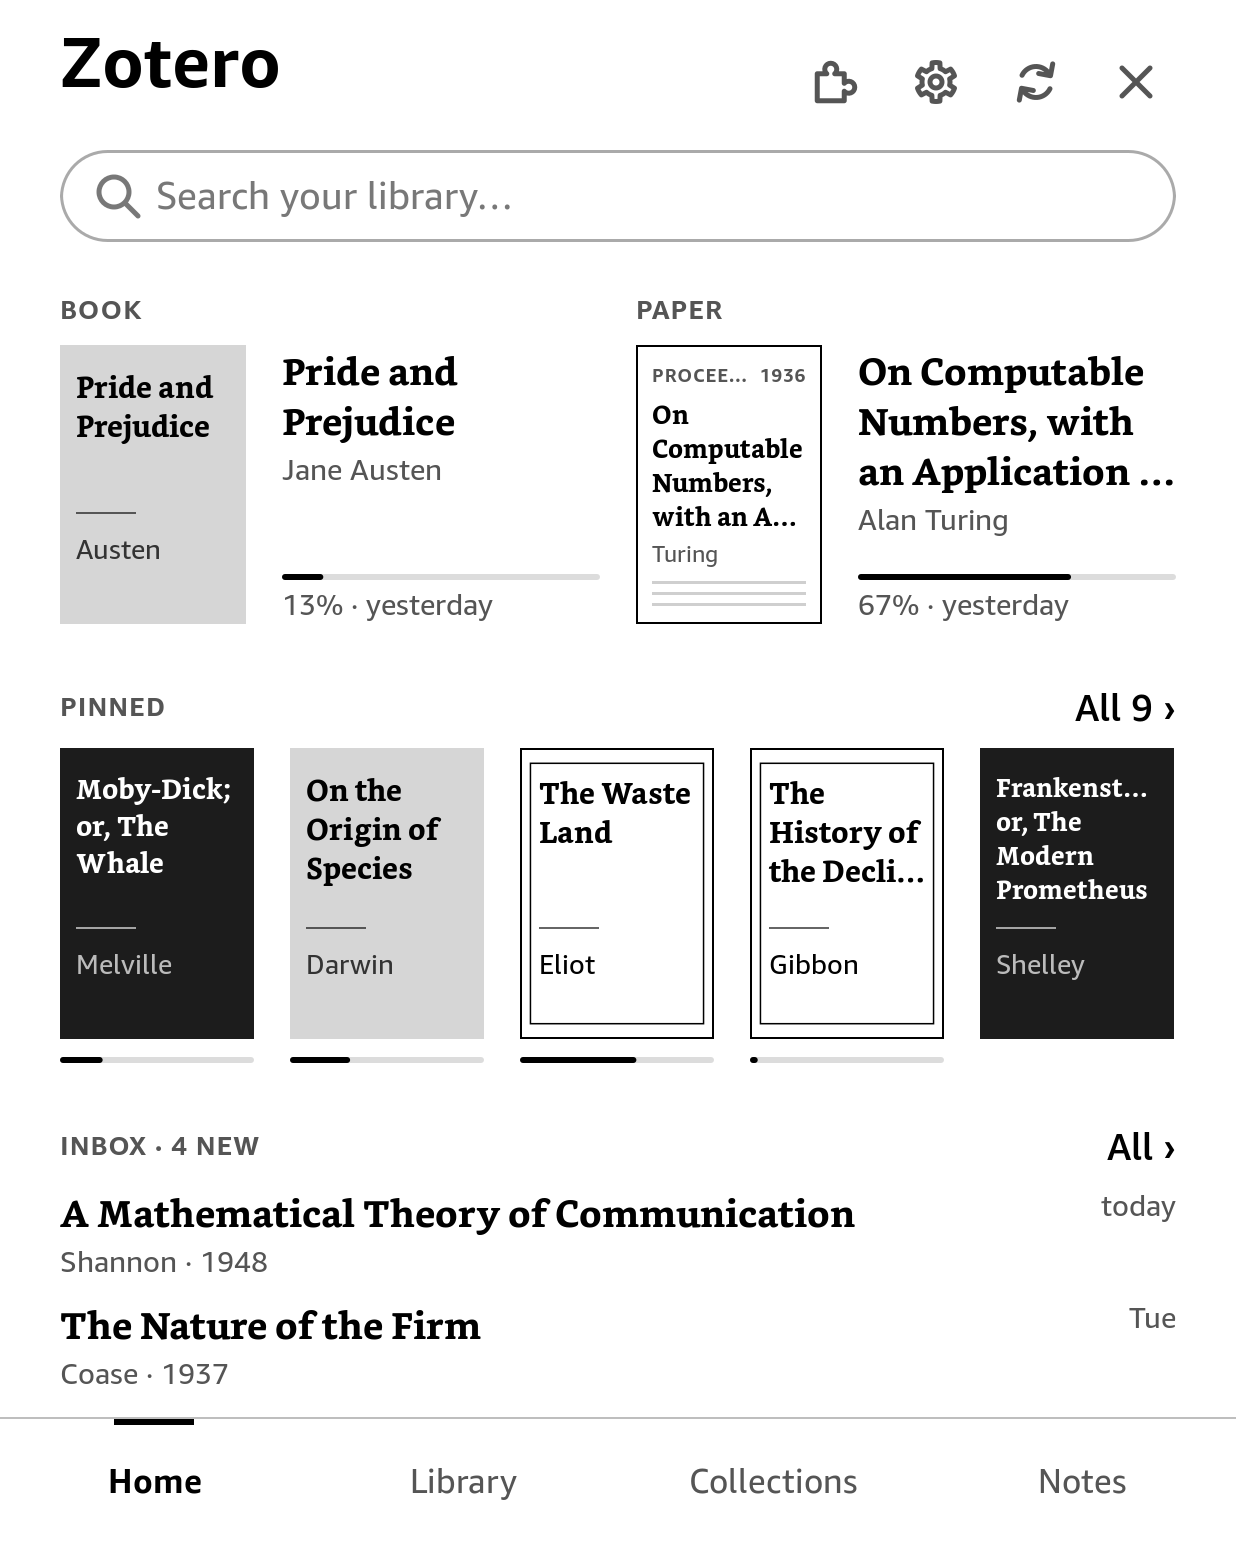
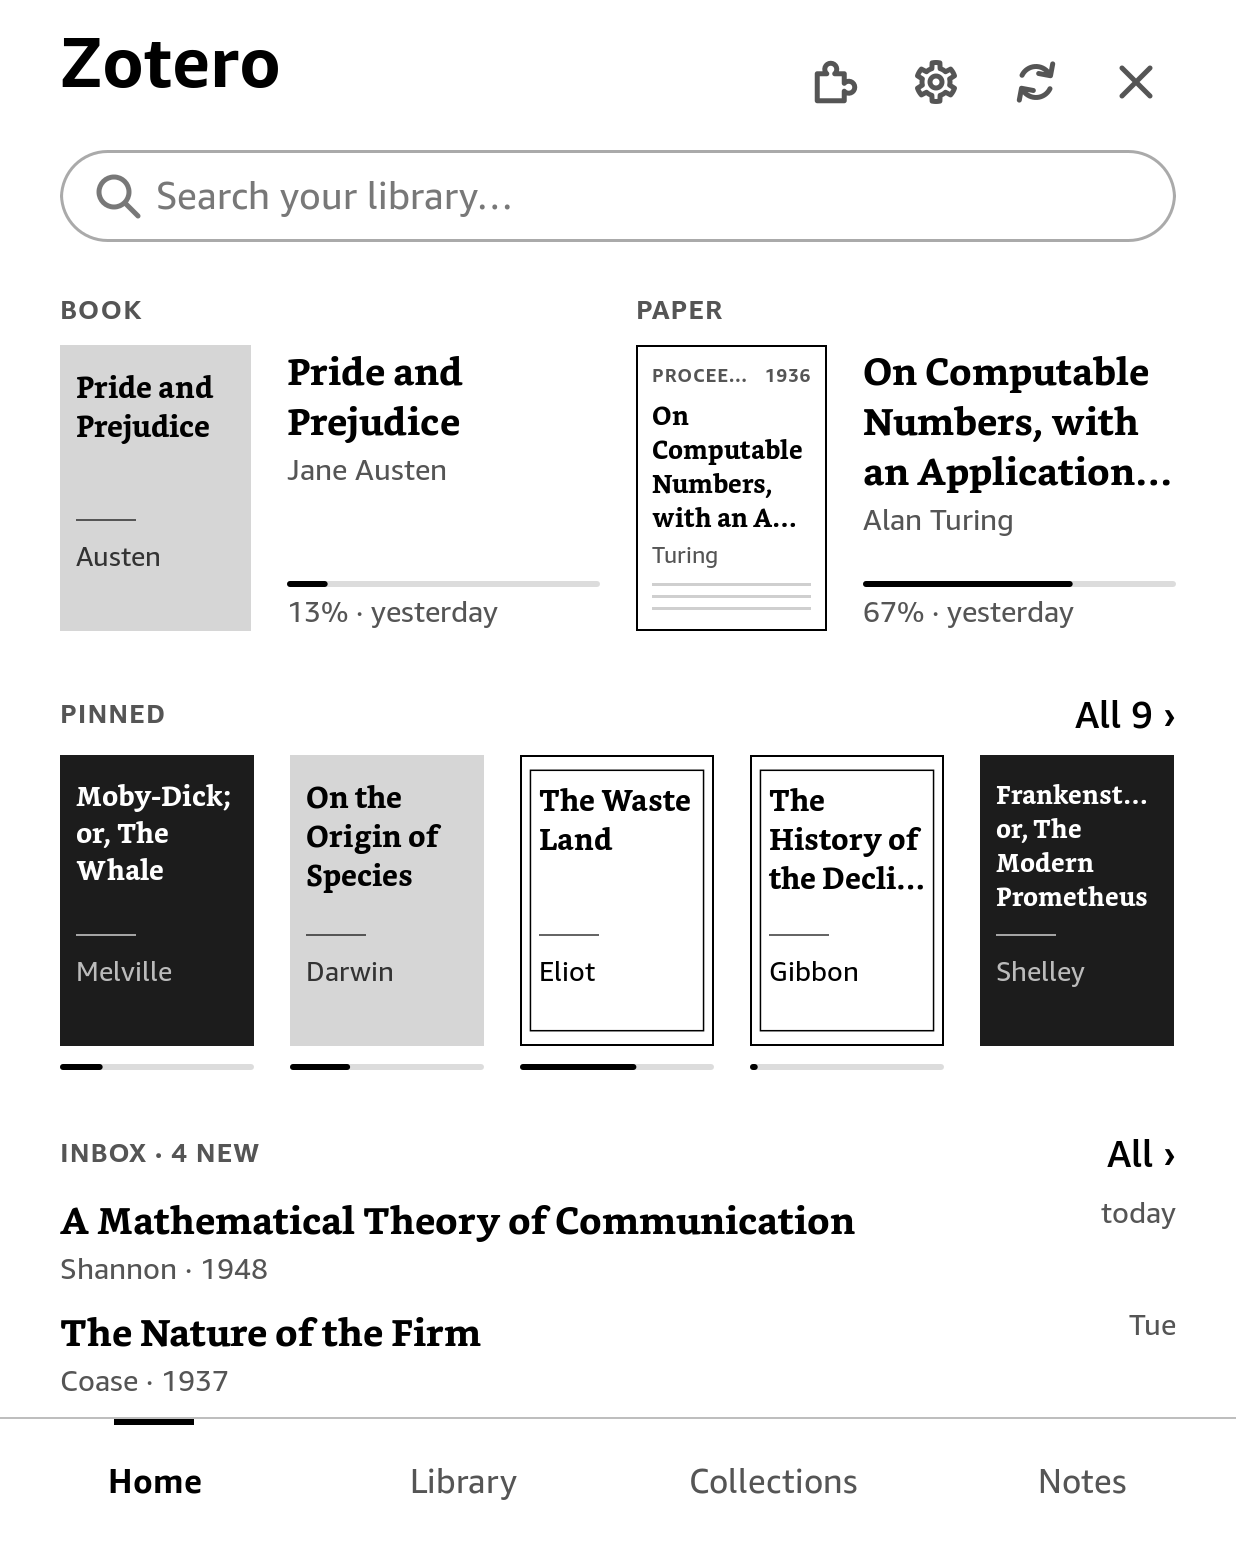
Reading Desk 0.3: screenshots
Covers about as wide on every Kindle (a Paperwhite's ~190 px): the pair's
cover is sized from zk.display.width, the pinned row holds 5 on a
Paperwhite, 4 on a basic Kindle, 8 on a Scribe, and Your desk's grid 4 a
row, 6 on a Scribe. A Paperwhite or basic Kindle turned gets a lower pair
so the pins still fit. New screenshot in the README and Composing.

diff --git a/tests/data/plugins/examples/reading-desk/main.js b/tests/data/plugins/examples/reading-desk/main.js
@@ -139,6 +139,12 @@ async function openPassage() {
 }
 
 // examples/reading-desk/src/pieces.ts
+var MARGIN = 60;
+var MEDIUM = 36;
+var LARGE = 60;
+var pageWidth = () => zk.display.width - 2 * MARGIN;
+var share = (px, width) => `${Math.min(100, Math.max(1, Math.round(100 * px / (width - MEDIUM))))}%`;
+var perRow = (px, width, gap) => Math.max(1, Math.round((width + gap) / (px + gap)));
 var label = (text) => zk.ui.text(text, { style: "label", caps: true });
 var title = (text, size, lines2) => zk.ui.text(text || "Untitled", { font: "serif", weight: "bold", size, lines: lines2 });
 var meta = (text, size = "small", lines2 = 1) => zk.ui.text(text, { font: "sans", size, tone: "secondary", lines: lines2 });
@@ -157,10 +163,10 @@ function pair(side) {
       ref(item),
       zk.ui.row(
         [
-          zk.ui.cover(ref(item), { width: side.wide ? "18%" : "37%" }),
+          zk.ui.cover(ref(item), { width: side.cover }),
           zk.ui.column(
             [
-              title(item.title, "body", 3),
+              title(item.title, "body", side.titleLines),
               side.authors && meta(side.authors, "small", 2),
               zk.ui.spacer(),
               item.progress !== null && zk.ui.progress(item.progress),
@@ -174,12 +180,12 @@ function pair(side) {
     )
   ]);
 }
-function shelfRow(items, minWidth) {
+function shelfRow(items, columns2) {
   return zk.ui.grid(
     items.map(
       (i) => zk.ui.item(ref(i), zk.ui.column([zk.ui.cover(ref(i)), i.progress !== null && zk.ui.progress(i.progress)]))
     ),
-    { columns: "auto", minWidth, rows: 1, gap: "medium" }
+    { columns: columns2, rows: 1, gap: "medium" }
   );
 }
 function lines(rows) {
@@ -216,7 +222,7 @@ var barSlot = (item) => zk.ui.row(
   [item.progress !== null && zk.ui.progress(item.progress), zk.ui.box(zk.ui.spacer(), { pad: "xsmall", width: "1%" })],
   { gap: "none", align: "top" }
 );
-function coverGrid(cells) {
+function coverGrid(cells, columns2) {
   return zk.ui.grid(
     cells.map(
       ({ item, caption: caption2 }) => zk.ui.item(
@@ -228,7 +234,7 @@ function coverGrid(cells) {
         ])
       )
     ),
-    { columns: "auto", minWidth: "22%", gap: "large" }
+    { columns: columns2, gap: "large" }
   );
 }
 
@@ -239,6 +245,7 @@ var EMPTY = {
   pinned: "Nothing pinned yet. Long-press an item \u2192 More\u2026 \u2192 Pin to Home / Unpin.",
   inbox: "Nothing new in the inbox."
 };
+var columns = () => perRow(220, pageWidth(), LARGE);
 function caption(i) {
   return [authorsOf(i, { most: 1 }), i.read ? "Read" : percentOf(i)].filter(Boolean).join(" \xB7 ");
 }
@@ -260,7 +267,7 @@ function registerDesk() {
       return zk.ui.column(
         [
           segmented(segments, `tab-${tab}`),
-          items.length > 0 ? coverGrid(items.map((item) => ({ item, caption: caption(item) }))) : zk.ui.text(EMPTY[tab], { tone: "secondary" })
+          items.length > 0 ? coverGrid(items.map((item) => ({ item, caption: caption(item) })), columns()) : zk.ui.text(EMPTY[tab], { tone: "secondary" })
         ],
         { gap: "large" }
       );
@@ -276,10 +283,11 @@ function registerDesk() {
 }
 
 // examples/reading-desk/src/home.ts
-var PINS_SHOWN = 8;
+var COVER = 190;
+var COVER_TURNED = 160;
 var tall = () => zk.display.height >= 2e3;
 var bandGap = () => zk.display.height < 1400 ? "medium" : "large";
-var coverMinWidth = () => zk.display.width >= 1600 ? "14%" : "17%";
+var pinsPerRow = () => perRow(COVER, pageWidth(), MEDIUM);
 var FIRST_USE = "Open a book or a paper and it will wait for you here. Pin things from an item's menu: long-press \u2192 More\u2026 \u2192 Pin to Home.";
 function sideMeta(s) {
   if (!s.started) return "Not started";
@@ -302,15 +310,24 @@ function registerHome() {
       };
       const sides = [side(opened.book, "Book", true), side(opened.paper, "Paper", false)].filter((s) => !!s);
       const inPair = (i) => sides.some((s) => same(ref(s.item), ref(i)));
-      const wide = sides.length === 1;
+      const turned = zk.display.landscape && zk.display.height < 1400;
+      const sideWidth = sides.length === 1 ? pageWidth() : (pageWidth() - MEDIUM) / 2;
       const pairBand = sides.length > 0 && zk.ui.row(
         sides.map(
-          (s) => pair({ kicker: s.kicker, item: s.item, authors: authorsOf(s.item, { most: 2, full: true }), meta: sideMeta(s), wide })
+          (s) => pair({
+            kicker: s.kicker,
+            item: s.item,
+            authors: authorsOf(s.item, { most: 2, full: true }),
+            meta: sideMeta(s),
+            cover: share(turned ? COVER_TURNED : COVER, sideWidth),
+            titleLines: turned ? 2 : 3
+          })
         ),
         { align: "top", gap: "medium" }
       );
-      const shelf = pinned.filter((i) => !inPair(i)).slice(0, PINS_SHOWN);
-      const pinnedBand = shelf.length > 0 && zk.ui.column([heading("Pinned", { id: "all-pinned", text: `All ${pinned.length} \u203A` }), shelfRow(shelf, coverMinWidth())]);
+      const columns2 = pinsPerRow();
+      const shelf = pinned.filter((i) => !inPair(i)).slice(0, columns2);
+      const pinnedBand = shelf.length > 0 && zk.ui.column([heading("Pinned", { id: "all-pinned", text: `All ${pinned.length} \u203A` }), shelfRow(shelf, columns2)]);
       const fresh = (unread ?? []).filter((i) => !inPair(i));
       const inboxBand = fresh.length > 0 && zk.ui.column(
         [

diff --git a/sdk/examples/reading-desk/src/pieces.ts b/sdk/examples/reading-desk/src/pieces.ts
@@ -1,11 +1,27 @@
 // The pieces Reading Desk is composed of, each from the app's primitives (zk.ui): a section
 // label, a heading with a link, an item beside its cover (the pair's side), a row of covers, a
 // list of text lines, a segmented switch, and a grid of captioned covers. The app draws them in
-// its own type and greys; nothing here is a pixel.
+// its own type and greys. The one place pixels enter is sizing (below): a cover is about as wide
+// on every Kindle, so a Scribe holds more of them rather than bigger ones.
 
 import { ref } from "./data";
 
 type Block = zk.ui.Block;
+
+/** The app's page margin and medium and large gaps, in zk.display's pixels (300 ppi). */
+const MARGIN = 60;
+export const MEDIUM = 36;
+export const LARGE = 60;
+
+/** The page's width inside its margins. */
+export const pageWidth = () => zk.display.width - 2 * MARGIN;
+
+/** `px` as a share of a row `width` wide with two children at a medium gap (a percent is of what the gap leaves). */
+export const share = (px: number, width: number): zk.ui.Percent =>
+  `${Math.min(100, Math.max(1, Math.round((100 * px) / (width - MEDIUM))))}%`;
+
+/** How many tiles of about `px` a row `width` wide holds at `gap` pixels between them. */
+export const perRow = (px: number, width: number, gap: number) => Math.max(1, Math.round((width + gap) / (px + gap)));
 
 /** A section label: small sans caps, tracked, secondary ("PINNED", "BOOK"). */
 export const label = (text: string) => zk.ui.text(text, { style: "label", caps: true });
@@ -32,10 +48,17 @@ export function heading(text: string, link?: { id: string; text: string }): Bloc
 
 /**
  * The pair's side: a kicker over the item's cover, and beside it the title (up to 3 lines), the
- * authors, and at the bottom the bar (once started) and a meta line. `wide`: the side has the
- * whole width, so its cover takes a smaller share of it.
+ * authors, and at the bottom the bar (once started) and a meta line. `cover`: the cover's share
+ * of the side; `titleLines`: where the title is cut.
  */
-export function pair(side: { kicker: string; item: zk.Item; authors: string; meta: string; wide: boolean }): Block {
+export function pair(side: {
+  kicker: string;
+  item: zk.Item;
+  authors: string;
+  meta: string;
+  cover: zk.ui.Percent;
+  titleLines: number;
+}): Block {
   const { item } = side;
   return zk.ui.column([
     label(side.kicker),
@@ -43,10 +66,10 @@ export function pair(side: { kicker: string; item: zk.Item; authors: string; met
       ref(item),
       zk.ui.row(
         [
-          zk.ui.cover(ref(item), { width: side.wide ? "18%" : "37%" }),
+          zk.ui.cover(ref(item), { width: side.cover }),
           zk.ui.column(
             [
-              title(item.title, "body", 3),
+              title(item.title, "body", side.titleLines),
               side.authors && meta(side.authors, "small", 2),
               zk.ui.spacer(),
               item.progress !== null && zk.ui.progress(item.progress),
@@ -62,15 +85,15 @@ export function pair(side: { kicker: string; item: zk.Item; authors: string; met
 }
 
 /**
- * One row of small covers (never more: what doesn't fit isn't drawn), each an item with a bar
- * under it once it was opened; no captions. `minWidth`: the narrowest a tile gets.
+ * One row of `columns` small covers (never more: what doesn't fit isn't drawn), each an item with
+ * a bar under it once it was opened; no captions.
  */
-export function shelfRow(items: zk.Item[], minWidth: zk.ui.Percent): Block {
+export function shelfRow(items: zk.Item[], columns: number): Block {
   return zk.ui.grid(
     items.map((i) =>
       zk.ui.item(ref(i), zk.ui.column([zk.ui.cover(ref(i)), i.progress !== null && zk.ui.progress(i.progress)])),
     ),
-    { columns: "auto", minWidth, rows: 1, gap: "medium" },
+    { columns, rows: 1, gap: "medium" },
   );
 }
 
@@ -118,8 +141,8 @@ const barSlot = (item: zk.Item) =>
     { gap: "none", align: "top" },
   );
 
-/** Covers in a grid that pages, each with its bar once opened, its title and a caption under it. */
-export function coverGrid(cells: { item: zk.Item; caption: string }[]): Block {
+/** Covers in a grid of `columns` that pages, each with its bar once opened, its title and a caption under it. */
+export function coverGrid(cells: { item: zk.Item; caption: string }[], columns: number): Block {
   return zk.ui.grid(
     cells.map(({ item, caption }) =>
       zk.ui.item(
@@ -131,6 +154,6 @@ export function coverGrid(cells: { item: zk.Item; caption: string }[]): Block {
         ]),
       ),
     ),
-    { columns: "auto", minWidth: "22%", gap: "large" },
+    { columns, gap: "large" },
   );
 }

diff --git a/sdk/examples/reading-desk/src/home.ts b/sdk/examples/reading-desk/src/home.ts
@@ -6,8 +6,9 @@
 //   INBOX · 4 NEW                              All ›       text lines            (or the passage)
 //
 // What doesn't fit is left out from the end, which is the order of sacrifice wanted: the passage,
-// then inbox lines, then the pinned row. zk.display only decides what trimming can't: how many
-// covers a row holds, and whether a Scribe's extra room takes a third line and the passage.
+// then inbox lines, then the pinned row. zk.display only decides what trimming can't: covers about
+// as wide on every Kindle (so how many a row holds), and whether a Scribe's extra room takes a
+// third line and the passage.
 
 import {
   authorsOf,
@@ -27,17 +28,19 @@ import {
   same,
   whenOf,
 } from "./data";
-import { endLink, heading, lines, pair, shelfRow } from "./pieces";
+import { MEDIUM, endLink, heading, lines, pageWidth, pair, perRow, share, shelfRow } from "./pieces";
 
-/** Covers a row passes the app (it draws what fits: 5 on a Paperwhite, 7 on a Scribe). */
-const PINS_SHOWN = 8;
+/** A cover's width in the pair and the pinned row, in pixels: a Paperwhite's, on every Kindle. */
+const COVER = 190;
+/** A Paperwhite or a basic Kindle turned is short: the pair is lower (a smaller cover, titles in 2 lines) so the pins fit under it. */
+const COVER_TURNED = 160;
 
 /** A Scribe's height: room for a third inbox line and the passage under the inbox. */
 const tall = () => zk.display.height >= 2000;
-/** Between the bands: closer on a basic Kindle's short screen, so the inbox keeps a line. */
+/** Between the bands: closer on a short screen (a basic Kindle, a Kindle turned). */
 const bandGap = (): zk.ui.Gap => (zk.display.height < 1400 ? "medium" : "large");
-/** About 200 px a cover: 5 on a Paperwhite or a basic Kindle, 7 on a Scribe. */
-const coverMinWidth = (): zk.ui.Percent => (zk.display.width >= 1600 ? "14%" : "17%");
+/** Pins in the row: 5 on a Paperwhite, 4 on a basic Kindle, 8 on a Scribe. */
+const pinsPerRow = () => perRow(COVER, pageWidth(), MEDIUM);
 
 const FIRST_USE =
   "Open a book or a paper and it will wait for you here. Pin things from an item's menu: long-press → More… → Pin to Home.";
@@ -73,20 +76,30 @@ export function registerHome() {
       };
       const sides = [side(opened.book, "Book", true), side(opened.paper, "Paper", false)].filter((s): s is Side => !!s);
       const inPair = (i: zk.Item) => sides.some((s) => same(ref(s.item), ref(i)));
-      const wide = sides.length === 1;
+      // The side's width: the page's, or half of it less the gap.
+      const turned = zk.display.landscape && zk.display.height < 1400;
+      const sideWidth = sides.length === 1 ? pageWidth() : (pageWidth() - MEDIUM) / 2;
       const pairBand =
         sides.length > 0 &&
         zk.ui.row(
           sides.map((s) =>
-            pair({ kicker: s.kicker, item: s.item, authors: authorsOf(s.item, { most: 2, full: true }), meta: sideMeta(s), wide }),
+            pair({
+              kicker: s.kicker,
+              item: s.item,
+              authors: authorsOf(s.item, { most: 2, full: true }),
+              meta: sideMeta(s),
+              cover: share(turned ? COVER_TURNED : COVER, sideWidth),
+              titleLines: turned ? 2 : 3,
+            }),
           ),
           { align: "top", gap: "medium" },
         );
 
-      const shelf = pinned.filter((i) => !inPair(i)).slice(0, PINS_SHOWN);
+      const columns = pinsPerRow();
+      const shelf = pinned.filter((i) => !inPair(i)).slice(0, columns);
       const pinnedBand =
         shelf.length > 0 &&
-        zk.ui.column([heading("Pinned", { id: "all-pinned", text: `All ${pinned.length} ›` }), shelfRow(shelf, coverMinWidth())]);
+        zk.ui.column([heading("Pinned", { id: "all-pinned", text: `All ${pinned.length} ›` }), shelfRow(shelf, columns)]);
 
       const fresh = (unread ?? []).filter((i) => !inPair(i));
       const inboxBand =

diff --git a/sdk/examples/reading-desk/src/desk.ts b/sdk/examples/reading-desk/src/desk.ts
@@ -14,7 +14,7 @@ import {
   percentOf,
   pinnedItems,
 } from "./data";
-import { coverGrid, segmented } from "./pieces";
+import { LARGE, coverGrid, pageWidth, perRow, segmented } from "./pieces";
 
 type Tab = "reading" | "pinned" | "inbox";
 const TABS: Tab[] = ["reading", "pinned", "inbox"];
@@ -24,6 +24,9 @@ const EMPTY: Record<Tab, string> = {
   pinned: "Nothing pinned yet. Long-press an item → More… → Pin to Home / Unpin.",
   inbox: "Nothing new in the inbox.",
 };
+
+/** A tile about 220 px wide: 4 a row on a Paperwhite or a basic Kindle, 6 on a Scribe. */
+const columns = () => perRow(220, pageWidth(), LARGE);
 
 /** "Austen · 42%", "Austen · Read", "Austen" (never opened). */
 function caption(i: zk.Item): string {
@@ -53,7 +56,7 @@ export function registerDesk() {
         [
           segmented(segments, `tab-${tab}`),
           items.length > 0
-            ? coverGrid(items.map((item) => ({ item, caption: caption(item) })))
+            ? coverGrid(items.map((item) => ({ item, caption: caption(item) })), columns())
             : zk.ui.text(EMPTY[tab], { tone: "secondary" }),
         ],
         { gap: "large" },

diff --git a/sdk/examples/reading-desk/README.md b/sdk/examples/reading-desk/README.md
@@ -16,9 +16,11 @@ fit is left out from the end (first the passage, then inbox lines, then the row 
   each kind not marked read, its cover, title, authors, a bar and "13% · today". A book is item
   type `book` or `bookSection`, or an EPUB file; everything else is a paper. A kind with nothing
   opened shows its first pin never opened and not read, **UP NEXT**, "Not started". A kind with
-  nothing at all: the other side takes the whole width; neither: no pair.
+  nothing at all: the other side takes the whole width; neither: no pair. A Paperwhite or a basic
+  Kindle turned: smaller covers and titles in 2 lines, so the row of pins fits under the pair.
 - **Pinned** — **All n ›** (every pin) and one row of covers in pin order, minus the pair: 5 on a
-  Paperwhite or a basic Kindle, 7 on a Scribe. A bar under a cover once it was opened.
+  Paperwhite, 4 on a basic Kindle, 8 on a Scribe (covers are about as wide on every Kindle, so a
+  wider screen holds more). A bar under a cover once it was opened.
 - **Inbox · n new** — **All ›** and the newest unread items of the inbox collection as lines:
   title, "authors · year", and when it was added ("today", "yesterday", "Mon", "Nov 12"). 2 lines,
   3 on a Scribe; minus the pair (n counts every unread item, as Your desk's Inbox n). At most the newest 100 are looked at ("99+").
@@ -36,8 +38,8 @@ has no All › (no pins in the row, no inbox band), a quiet **Your desk ›** un
 ## Your desk
 
 A switch **Reading · Pinned · Inbox n** (Inbox only with an inbox), on the tab of the All ›
-tapped, over a grid of covers that pages: each with its bar once opened, its title and "author ·
-42%" ("Read" once marked read).
+tapped, over a grid of covers that pages (4 a row, 6 on a Scribe): each with its bar once opened,
+its title and "author · 42%" ("Read" once marked read).
 
 - **Reading**: opened and not marked read, books and papers together, most recent first (60).
 - **Pinned**: every pin, in pin order.

diff --git a/README.md b/README.md
@@ -78,8 +78,9 @@ copy its folder into `zotero/plugins/` over USB. A plugin can also fill the body
 your items with their reading progress; the app keeps the frame and falls back to its own body if the plugin fails.
 
 <p align="center"><img src="docs/screenshots/reading-desk.png" width="300" alt="Reading Desk, a Home written by a plugin"><br>
-<sub><a href="https://github.com/ievlevpn/zk-reading-desk">Reading Desk</a>: what you're reading, a shelf of books, papers
-and pins, and a passage from your highlights each day</sub></p>
+<sub><a href="https://github.com/ievlevpn/zk-reading-desk">Reading Desk</a> 0.3: the book and the paper you're in, a row
+of pins, what's new in an inbox (or a passage from your highlights), and Your desk one tap away — built only from the
+app's primitives (<a href="docs/plugins/composing.md">Composing screens</a>)</sub></p>
 
 They're kept on a short leash:
 
